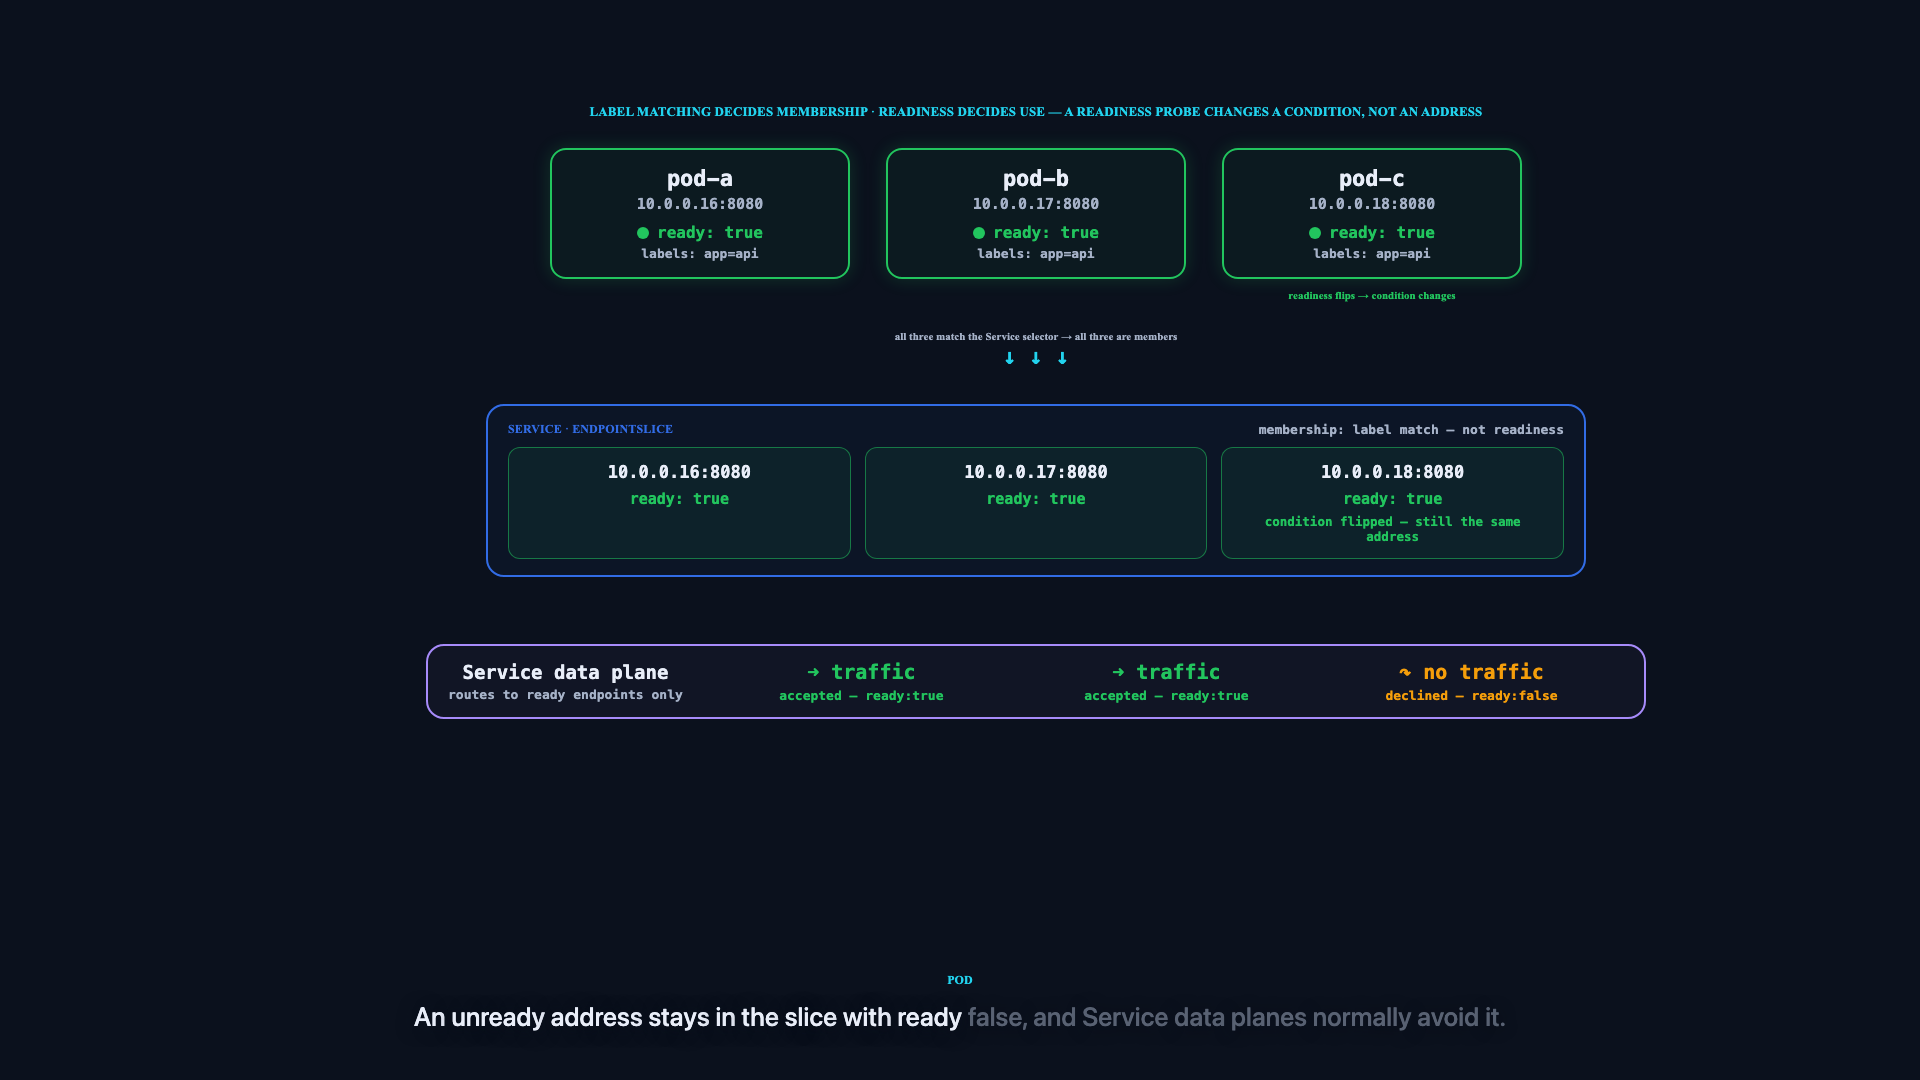
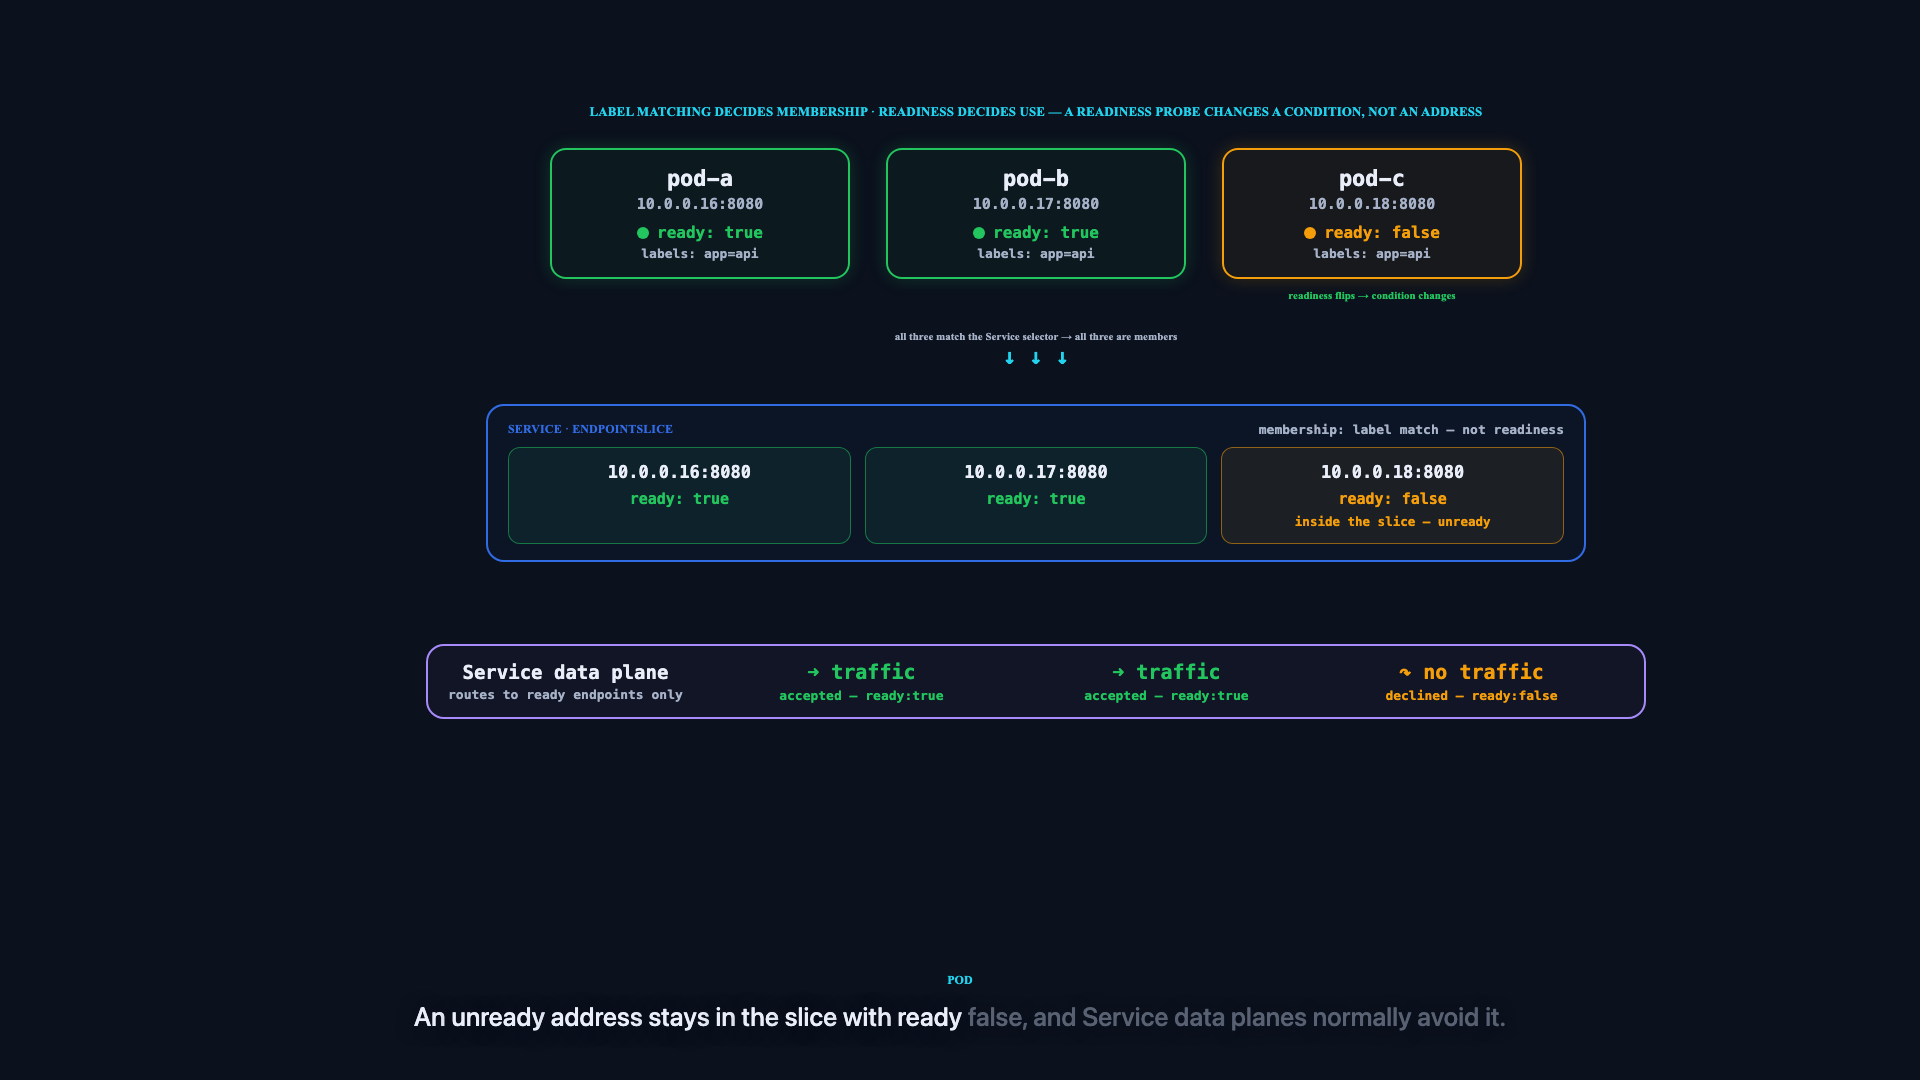
Keep EndpointSlice readiness views consistent

diff --git a/video/src/visuals/Endpoints.tsx b/video/src/visuals/Endpoints.tsx
@@ -182,8 +182,12 @@ const ModuleEndpoints: React.FC = () => {
         >
           {PODS.map((p, i) => {
             const isThird = i === 2;
-            const nowReady = isThird ? flip > 0.5 : p.ready;
-            const readyNow = isThird ? flip > 0.3 : true;
+            // One readiness value, one threshold. Two thresholds (0.3 and 0.5)
+            // left a window where the Pod card claimed ready:true while the data
+            // plane below declined the same endpoint as ready:false — three
+            // renderings of one fact, disagreeing on screen.
+            const readyNow = isThird ? flip > 0.5 : p.ready;
+            const nowReady = readyNow;
             return (
               <div key={p.name} style={{ width: 300, textAlign: 'center' }}>
                 <div
@@ -270,7 +274,7 @@ const ModuleEndpoints: React.FC = () => {
           <div style={{ display: 'flex', gap: 14 }}>
             {PODS.map((p, i) => {
               const isThird = i === 2;
-              const readyNow = isThird ? flip > 0.3 : true;
+              const readyNow = isThird ? flip > 0.5 : p.ready; // same threshold as the Pod card
               return (
                 <div
                   key={p.name}
